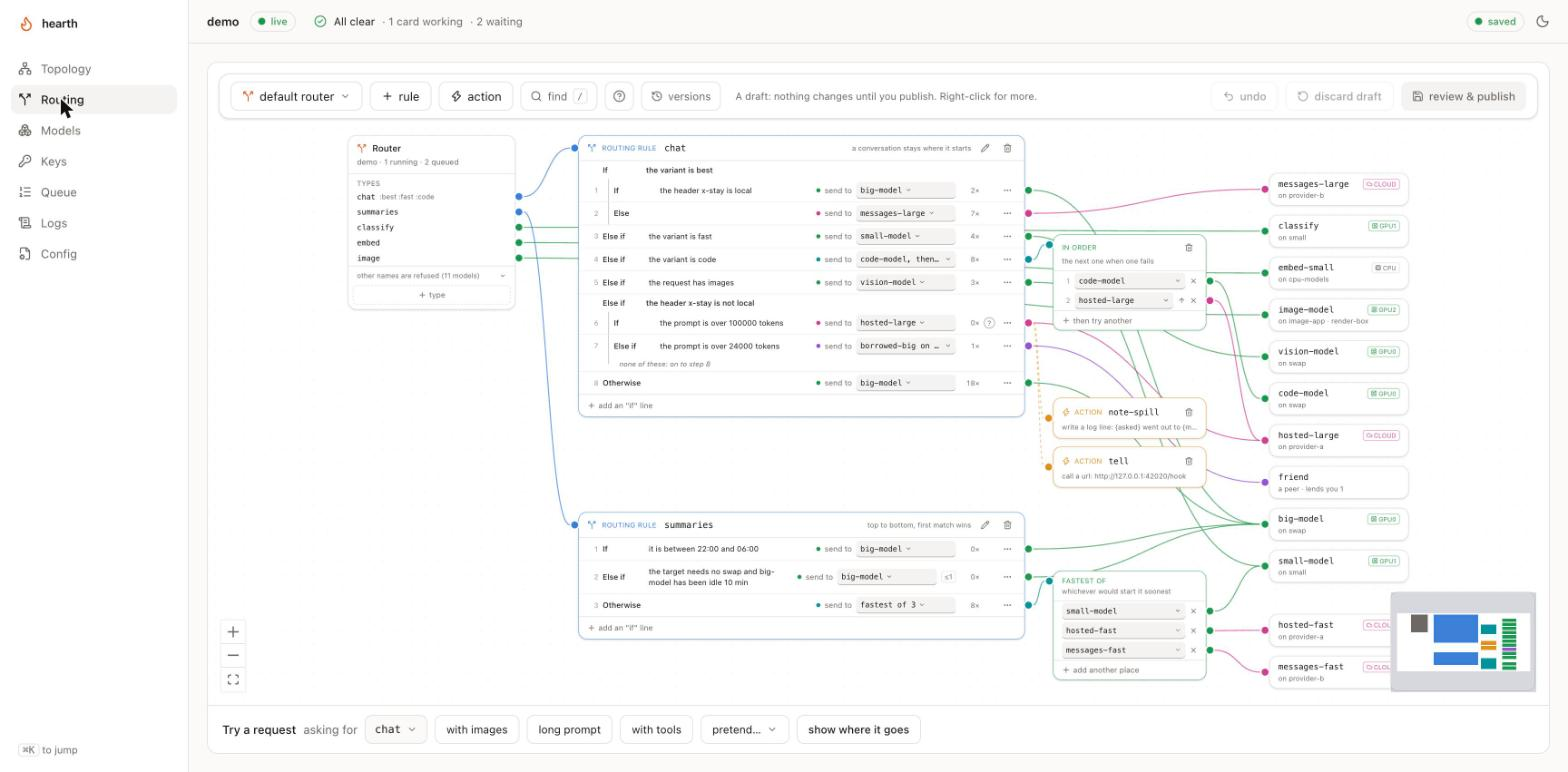
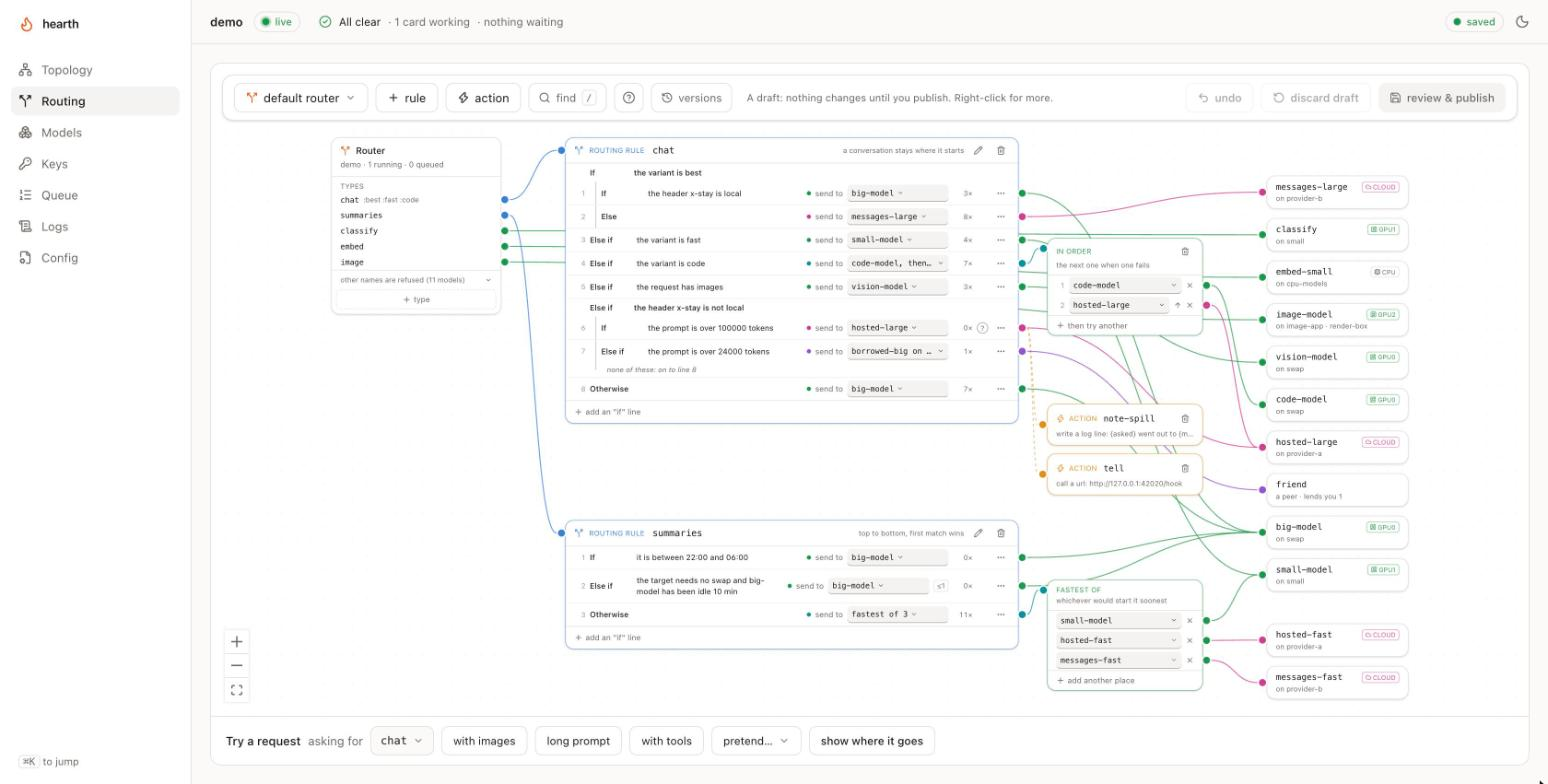
docs: the console page says what the console does, with pictures that can be read (#141)
docs/console.md said five pages and listed seven, named two buttons the
routing map does not have, and said the Topology page is watched and not
edited. The two pictures in the README are retaken from the demo: the
topology close enough to read its labels, the routing map with nothing
over its right-hand column.

diff --git a/docs/console.md b/docs/console.md
@@ -10,7 +10,7 @@ single response and still adds **nothing** to what `npm install` pulls down —
 the browser half is bundled from devDependencies and the package keeps its one
 runtime dependency.
 
-Five pages, and ⌘K jumps to anything on them:
+Seven pages, and ⌘K (Ctrl+K) jumps between them and to anything on Topology:
 
 - **Topology**: this node, its backends, the hardware they share, and its peers,
   with requests drawn as they flow, over a strip of the last ten minutes. Click
@@ -101,7 +101,7 @@ The **Routing** page is a map of the routing you have set up, and it is where
 you change it. It shows only that: the names you send somewhere other than
 their own model, the rules they pass through, and the models and peers those
 end at. Every other name goes to its own model, which the node says in one
-line; **route a name** brings one onto the map.
+line; **+ type** brings one onto the map.
 
 - **The Router lists your types**: the names callers may ask for. **+ type**
   adds one of your own (`LLM`, `ImageGen`) or offers a model under its own
@@ -109,8 +109,9 @@ line; **route a name** brings one onto the map.
   changes it between "refuse it" and "run it as itself".
 - **A name's dot** is where its line starts. Drag it onto another model or a
   peer to send requests for that name there, onto a rule to have the rule
-  decide, or back onto its own model to undo. **add a new name** adds one
-  nothing serves yet, such as `auto`; it exists once it has been sent somewhere.
+  decide, or back onto its own model to undo. **A new type…** under **+ type**
+  adds one nothing serves yet, such as `auto`; it exists once it has been sent
+  somewhere.
 - **+ rule** adds a routing rule: a flow drawn as a box whose lines read as
   sentences, `If … send to …`, ending in `Otherwise …`. Start from a common
   one (borrow an idle model, send images or long prompts somewhere else, stay
@@ -208,8 +209,9 @@ config file since they are copies of it. A hand edit to the file is not a
 version.
 
 The **Topology** page is the other picture: the machines, hardware and
-backends, and the requests in flight. It is watched, not edited; backends,
-hardware and servers are changed on the Config page.
+backends, and the requests in flight. The strip over it adds a backend,
+hardware, a machine or a provider, as a draft that is reviewed and published
+like a routing change; the Config page edits the same settings as forms.
 
 ### Where changes go
 
